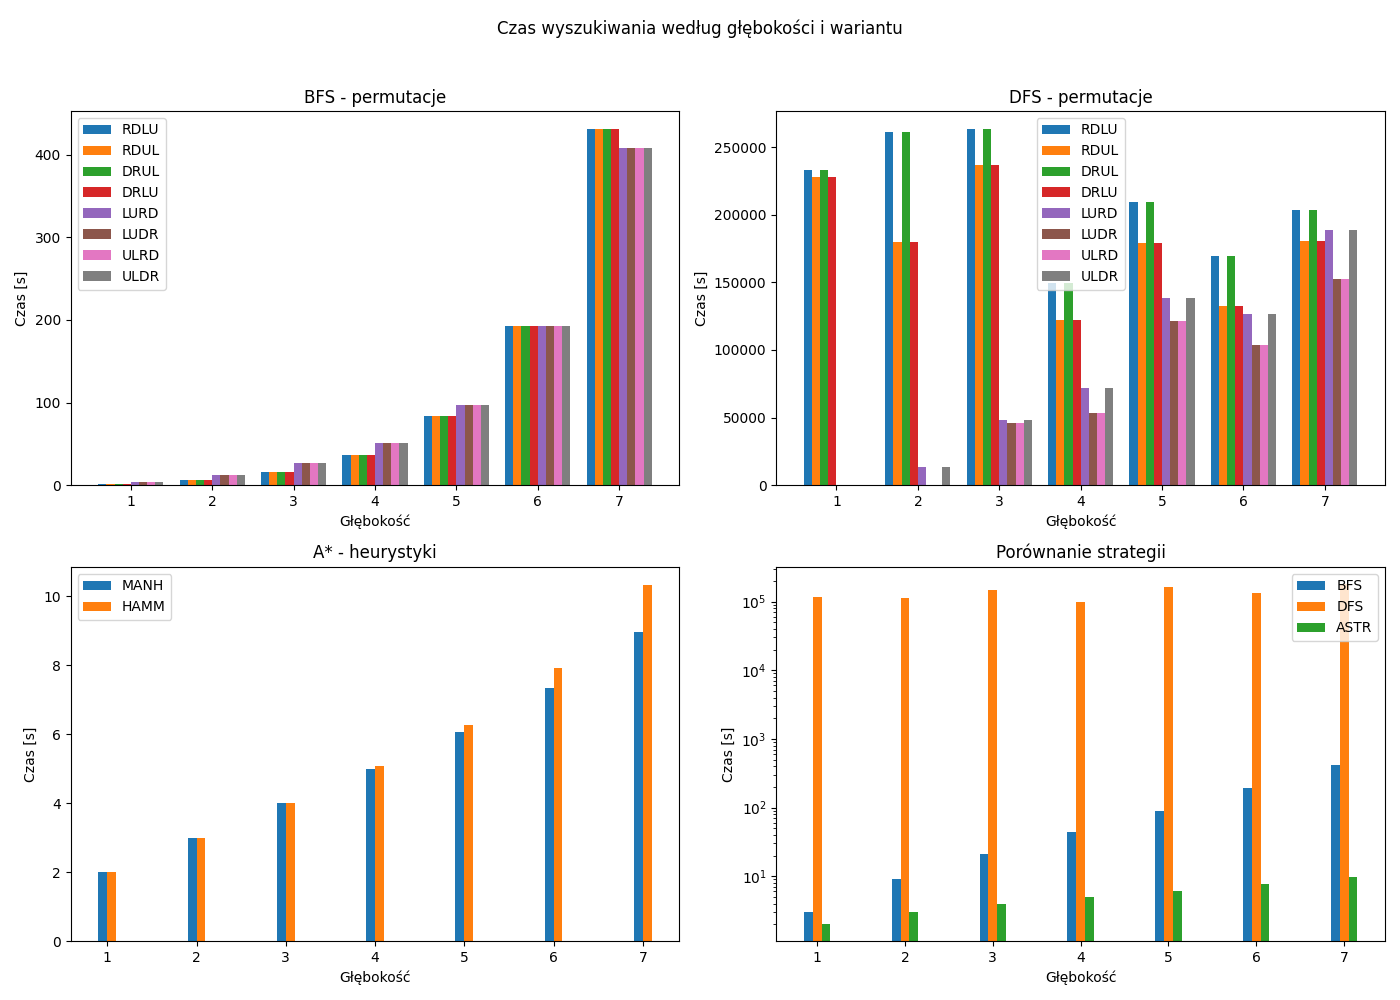
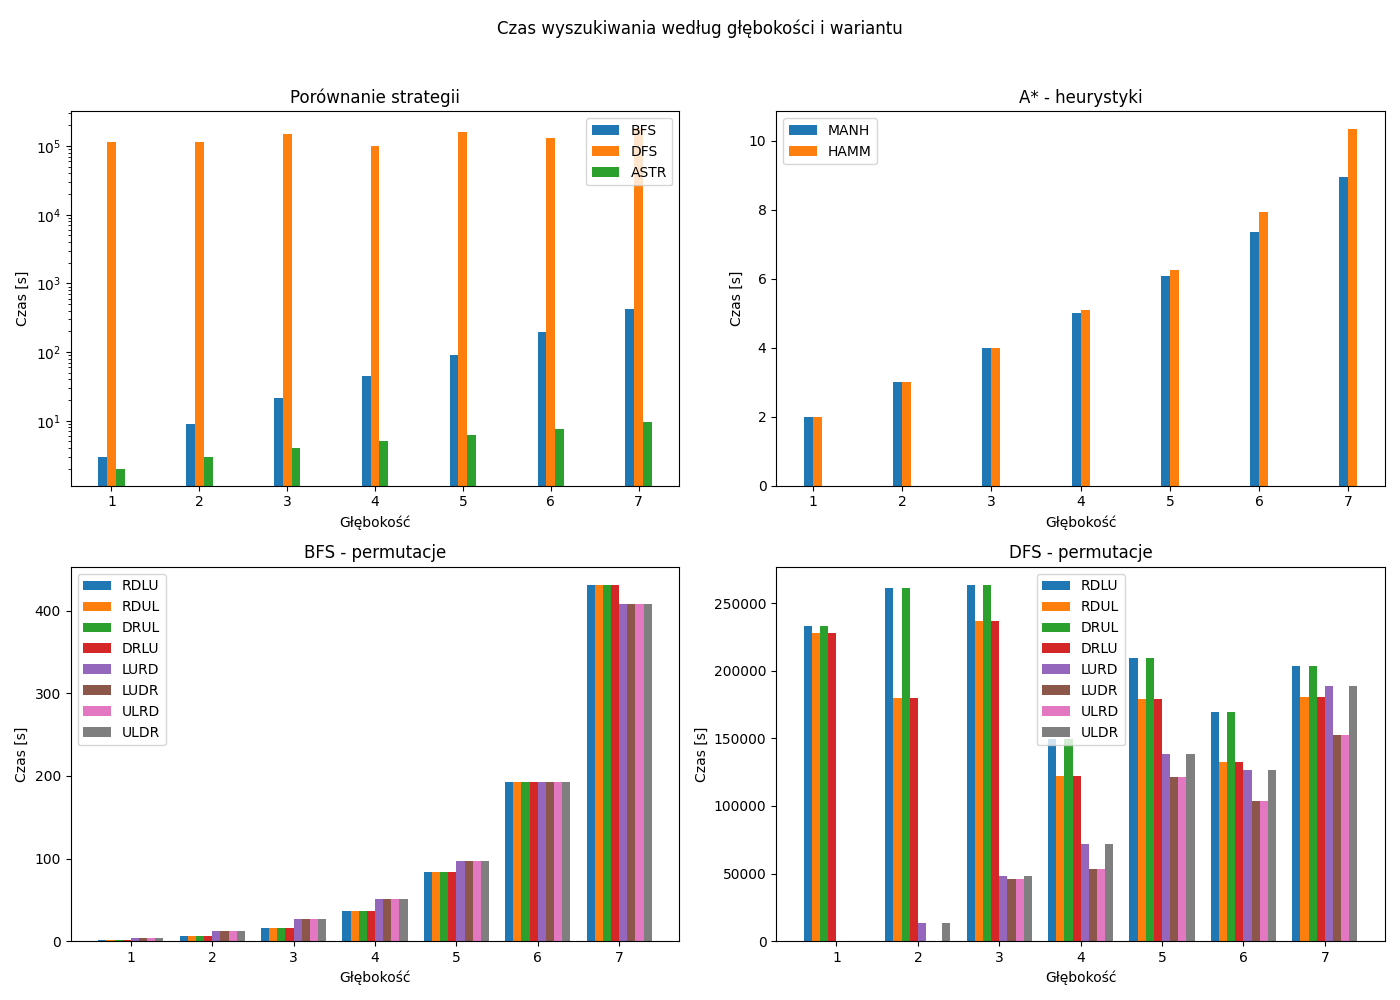
zamiana miejscami żeby było ładnie po kolei

diff --git a/wykresy.py b/wykresy.py
@@ -33,7 +33,7 @@ def plot_grouped_bars(grouped_data, metric_name, title, ylabel, filename):
         ax.set_xticklabels(depths)
         ax.legend()
 
-        if subplot_idx == (1, 1) and (metric_name == "searchTime" or "visitedStates" or "processedStates"):
+        if subplot_idx == (0, 0) and (metric_name == "searchTime" or "visitedStates" or "processedStates"):
             ax.set_yscale('log')
 
     plt.tight_layout(rect=(0, 0, 1, 0.96))
@@ -118,15 +118,15 @@ for filename in os.listdir(resultsDir):
 
 plot_grouped_bars(
     grouped_data=[
-        (bfs_by_depth_perm, ["RDLU", "RDUL", "DRUL", "DRLU", "LURD","LUDR","ULRD", "ULDR"], "BFS - permutacje", (0, 0)),
-        (dfs_by_depth_perm, ["RDLU", "RDUL", "DRUL", "DRLU", "LURD","LUDR","ULRD", "ULDR"], "DFS - permutacje", (0, 1)),
-        (astr_by_depth_heur, ["manh", "hamm"], "A* - heurystyki", (1, 0)),
         (
             {i: {"bfs": bfs_by_depth[i], "dfs": dfs_by_depth[i], "astr": astr_by_depth[i]} for i in range(1, 8)},
             ["bfs", "dfs", "astr"],
             "Porównanie strategii",
-            (1, 1)
-        )
+            (0, 0)
+        ),
+        (astr_by_depth_heur, ["manh", "hamm"], "A* - heurystyki", (0, 1)),
+        (bfs_by_depth_perm, ["RDLU", "RDUL", "DRUL", "DRLU", "LURD","LUDR","ULRD", "ULDR"], "BFS - permutacje", (1, 0)),
+        (dfs_by_depth_perm, ["RDLU", "RDUL", "DRUL", "DRLU", "LURD","LUDR","ULRD", "ULDR"], "DFS - permutacje", (1, 1)),
     ],
     metric_name="searchTime",
     title="Czas wyszukiwania według głębokości i wariantu",
@@ -136,15 +136,17 @@ plot_grouped_bars(
 
 plot_grouped_bars(
     grouped_data=[
-        (bfs_by_depth_perm, ["RDLU", "RDUL", "DRUL", "DRLU", "LURD","LUDR","ULRD", "ULDR"], "BFS - permutacje", (0, 0)),
-        (dfs_by_depth_perm, ["RDLU", "RDUL", "DRUL", "DRLU", "LURD","LUDR","ULRD", "ULDR"], "DFS - permutacje", (0, 1)),
-        (astr_by_depth_heur, ["manh", "hamm"], "A* - heurystyki", (1, 0)),
         (
             {i: {"bfs": bfs_by_depth[i], "dfs": dfs_by_depth[i], "astr": astr_by_depth[i]} for i in range(1, 8)},
             ["bfs", "dfs", "astr"],
             "Porównanie strategii",
-            (1, 1)
-        )
+            (0, 0)
+        ),
+        (astr_by_depth_heur, ["manh", "hamm"], "A* - heurystyki", (0, 1)),
+        (bfs_by_depth_perm, ["RDLU", "RDUL", "DRUL", "DRLU", "LURD", "LUDR", "ULRD", "ULDR"], "BFS - permutacje",
+         (1, 0)),
+        (dfs_by_depth_perm, ["RDLU", "RDUL", "DRUL", "DRLU", "LURD", "LUDR", "ULRD", "ULDR"], "DFS - permutacje",
+         (1, 1)),
     ],
     metric_name="maxDepthRecursion",
     title="Czas wyszukiwania według głębokości i wariantu",
@@ -154,15 +156,17 @@ plot_grouped_bars(
 
 plot_grouped_bars(
     grouped_data=[
-        (bfs_by_depth_perm, ["RDLU", "RDUL", "DRUL", "DRLU", "LURD","LUDR","ULRD", "ULDR"], "BFS - permutacje", (0, 0)),
-        (dfs_by_depth_perm, ["RDLU", "RDUL", "DRUL", "DRLU", "LURD","LUDR","ULRD", "ULDR"], "DFS - permutacje", (0, 1)),
-        (astr_by_depth_heur, ["manh", "hamm"], "A* - heurystyki", (1, 0)),
         (
             {i: {"bfs": bfs_by_depth[i], "dfs": dfs_by_depth[i], "astr": astr_by_depth[i]} for i in range(1, 8)},
             ["bfs", "dfs", "astr"],
             "Porównanie strategii",
-            (1, 1)
-        )
+            (0, 0)
+        ),
+        (astr_by_depth_heur, ["manh", "hamm"], "A* - heurystyki", (0, 1)),
+        (bfs_by_depth_perm, ["RDLU", "RDUL", "DRUL", "DRLU", "LURD", "LUDR", "ULRD", "ULDR"], "BFS - permutacje",
+         (1, 0)),
+        (dfs_by_depth_perm, ["RDLU", "RDUL", "DRUL", "DRLU", "LURD", "LUDR", "ULRD", "ULDR"], "DFS - permutacje",
+         (1, 1)),
     ],
     metric_name="processedStates",
     title="Czas wyszukiwania według głębokości i wariantu",
@@ -172,15 +176,17 @@ plot_grouped_bars(
 
 plot_grouped_bars(
     grouped_data=[
-        (bfs_by_depth_perm, ["RDLU", "RDUL", "DRUL", "DRLU", "LURD","LUDR","ULRD", "ULDR"], "BFS - permutacje", (0, 0)),
-        (dfs_by_depth_perm, ["RDLU", "RDUL", "DRUL", "DRLU", "LURD","LUDR","ULRD", "ULDR"], "DFS - permutacje", (0, 1)),
-        (astr_by_depth_heur, ["manh", "hamm"], "A* - heurystyki", (1, 0)),
         (
             {i: {"bfs": bfs_by_depth[i], "dfs": dfs_by_depth[i], "astr": astr_by_depth[i]} for i in range(1, 8)},
             ["bfs", "dfs", "astr"],
             "Porównanie strategii",
-            (1, 1)
-        )
+            (0, 0)
+        ),
+        (astr_by_depth_heur, ["manh", "hamm"], "A* - heurystyki", (0, 1)),
+        (bfs_by_depth_perm, ["RDLU", "RDUL", "DRUL", "DRLU", "LURD", "LUDR", "ULRD", "ULDR"], "BFS - permutacje",
+         (1, 0)),
+        (dfs_by_depth_perm, ["RDLU", "RDUL", "DRUL", "DRLU", "LURD", "LUDR", "ULRD", "ULDR"], "DFS - permutacje",
+         (1, 1)),
     ],
     metric_name="visitedStates",
     title="Czas wyszukiwania według głębokości i wariantu",
@@ -190,15 +196,17 @@ plot_grouped_bars(
 
 plot_grouped_bars(
     grouped_data=[
-        (bfs_by_depth_perm, ["RDLU", "RDUL", "DRUL", "DRLU", "LURD","LUDR","ULRD", "ULDR"], "BFS - permutacje", (0, 0)),
-        (dfs_by_depth_perm, ["RDLU", "RDUL", "DRUL", "DRLU", "LURD","LUDR","ULRD", "ULDR"], "DFS - permutacje", (0, 1)),
-        (astr_by_depth_heur, ["manh", "hamm"], "A* - heurystyki", (1, 0)),
         (
             {i: {"bfs": bfs_by_depth[i], "dfs": dfs_by_depth[i], "astr": astr_by_depth[i]} for i in range(1, 8)},
             ["bfs", "dfs", "astr"],
             "Porównanie strategii",
-            (1, 1)
-        )
+            (0, 0)
+        ),
+        (astr_by_depth_heur, ["manh", "hamm"], "A* - heurystyki", (0, 1)),
+        (bfs_by_depth_perm, ["RDLU", "RDUL", "DRUL", "DRLU", "LURD", "LUDR", "ULRD", "ULDR"], "BFS - permutacje",
+         (1, 0)),
+        (dfs_by_depth_perm, ["RDLU", "RDUL", "DRUL", "DRLU", "LURD", "LUDR", "ULRD", "ULDR"], "DFS - permutacje",
+         (1, 1)),
     ],
     metric_name="solutionLength",
     title="Czas wyszukiwania według głębokości i wariantu",
